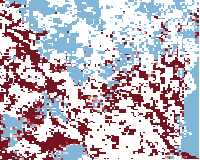
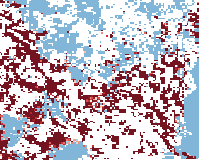
NISAR: subtract hydrostatic and wet troposphere screens (sign tested), rebuild NISAR stacks and exports

diff --git a/src/corrections.py b/src/corrections.py
@@ -1,0 +1,75 @@
+"""NISAR GUNW troposphere and solid-earth-tide screens, evaluated on the 80 m pixel grid.
+The file stores each screen as a 3-D cube (20 heights, 500 m grid) in radians. A pixel needs its own ground height to pick the right slice,
+and the file has no per-pixel DEM, so heights come from the open Copernicus 30 m DEM (orthometric; converted to ellipsoidal with a fixed -28 m
+geoid offset for Arizona, small next to the 500 m layer spacing)."""
+import os, numpy as np, h5py, rasterio
+from rasterio.windows import from_bounds
+from scipy.ndimage import map_coordinates
+from pyproj import Transformer
+ROOT = os.path.dirname(os.path.dirname(os.path.abspath(__file__)))
+RG = "science/LSAR/GUNW/metadata/radarGrid/"
+GEOID_OFFSET_M = -28.0
+SCREENS = {"hydro": "hydrostaticTroposphericPhaseScreen", "wet": "wetTroposphericPhaseScreen", "tide": "slantRangeSolidEarthTidesPhase"}
+
+
+def _tile_url(lat0, lon0):
+    ns = f"N{lat0:02d}"
+    ew = f"W{-lon0:03d}" if lon0 < 0 else f"E{lon0:03d}"
+    n = f"Copernicus_DSM_COG_10_{ns}_00_{ew}_00_DEM"
+    return f"/vsicurl/https://copernicus-dem-30m.s3.amazonaws.com/{n}/{n}.tif"
+
+
+def dem_for_box(lonlat_box, name):
+    """(array, west, north, step_deg) of the DEM for the box, cached in data/processed/cache."""
+    cache = f"{ROOT}/data/processed/cache/dem_{name}.npz"
+    if os.path.exists(cache):
+        z = np.load(cache)
+        return z["a"], float(z["w"]), float(z["n"]), float(z["step"])
+    w, s, e, n = lonlat_box
+    w -= .05; s -= .05; e += .05; n += .05
+    step = 1 / 3600
+    nx, ny = int(round((e - w) / step)), int(round((n - s) / step))
+    out = np.full((ny, nx), np.nan, "float32")
+    with rasterio.Env(GDAL_DISABLE_READDIR_ON_OPEN="EMPTY_DIR", CPL_VSIL_CURL_ALLOWED_EXTENSIONS=".tif"):
+        for lat0 in range(int(np.floor(s)), int(np.floor(n)) + 1):
+            for lon0 in range(int(np.floor(w)), int(np.floor(e)) + 1):
+                try:
+                    d = rasterio.open(_tile_url(lat0, lon0))
+                except Exception:
+                    continue
+                with d:
+                    b = d.bounds
+                    l, bt, r, t = max(w, b.left), max(s, b.bottom), min(e, b.right), min(n, b.top)
+                    if l >= r or bt >= t:
+                        continue
+                    a = d.read(1, window=from_bounds(l, bt, r, t, d.transform)).astype("float32")
+                    r0 = int(round((n - t) / step)); c0 = int(round((l - w) / step))
+                    hh, ww = min(a.shape[0], ny - r0), min(a.shape[1], nx - c0)
+                    out[r0:r0 + hh, c0:c0 + ww] = a[:hh, :ww]
+    os.makedirs(os.path.dirname(cache), exist_ok=True)
+    np.savez(cache, a=out, w=w, n=n, step=step)
+    return out, w, n, step
+
+
+def heights_on_grid(dem, epsg, x, y):
+    a, w, n, step = dem
+    X, Y = np.meshgrid(x, y)
+    lon, lat = Transformer.from_crs(epsg, 4326, always_xy=True).transform(X, Y)
+    h = map_coordinates(np.nan_to_num(a, nan=float(np.nanmedian(a))), [(n - lat) / step - .5, (lon - w) / step - .5], order=1, mode="nearest")
+    return h + GEOID_OFFSET_M
+
+
+def screen_on_grid(path, which, x, y, h):
+    """Phase screen (radians) for 'hydro' | 'wet' | 'tide' at pixel coordinates x (1-D), y (1-D) and heights h (2-D, ellipsoidal metres)."""
+    with h5py.File(path, "r") as f:
+        g = f[RG]
+        xc, yc, hz = g["xCoordinates"][:], g["yCoordinates"][:], g["heightAboveEllipsoid"][:]
+        dx, dy = xc[1] - xc[0], yc[1] - yc[0]
+        c0 = max(int((x.min() - xc[0]) / dx) - 2, 0); c1 = min(int((x.max() - xc[0]) / dx) + 3, len(xc))
+        r0 = max(int((y.max() - yc[0]) / dy) - 2, 0); r1 = min(int((y.min() - yc[0]) / dy) + 3, len(yc))
+        cube = g[SCREENS[which]][:, r0:r1, c0:c1].astype("float64")
+    X, Y = np.meshgrid(x, y)
+    col = (X - xc[0]) / dx - c0
+    row = (Y - yc[0]) / dy - r0
+    z = np.clip((h - hz[0]) / (hz[1] - hz[0]), 0, len(hz) - 1)
+    return map_coordinates(cube, [z, row, col], order=1, mode="nearest")

diff --git a/src/nisar_noise_test.py b/src/nisar_noise_test.py
@@ -1,0 +1,79 @@
+"""Does subtracting NISAR's own troposphere / solid-earth-tide screens make the Willcox series cleaner?
+Same 25-pair chain as stack.py, same pixels, same reference; only the correction changes. Both signs of each screen are tried,
+because the sign convention is not something we can verify from here: the sign that REDUCES scatter is the physical one.
+Usage: python nisar_noise_test.py"""
+import glob, re, os, json, datetime as dt, numpy as np
+from gunw import read_window, ref_median
+import corrections as C
+BOX = (-110.1, 31.9, -109.6, 32.4)
+REF = (-109.98, 31.95)
+ROOT = C.ROOT
+best = {}
+for p in glob.glob(f"{ROOT}/data/raw/NISAR_L2_*_GUNW_*_128_D_072_*.h5"):
+    k = re.sub(r"_[PX]\d{5}_", "_", os.path.basename(p))
+    if k not in best or "_P0" in p and "_X0" in best[k]:
+        best[k] = p
+dem = C.dem_for_box(BOX, "willcox")
+print("DEM", dem[0].shape, "range", np.nanmin(dem[0]), np.nanmax(dem[0]))
+VAR = {"iono only": {}, "+tide": {"tide": 1}, "+hydro": {"hydro": 1}, "+wet": {"wet": 1}, "+hydro+wet": {"hydro": 1, "wet": 1}, "+tropo+tide": {"hydro": 1, "wet": 1, "tide": 1},
+       "-tide": {"tide": -1}, "-hydro": {"hydro": -1}, "-wet": {"wet": -1}, "-hydro-wet": {"hydro": -1, "wet": -1}, "-tropo-tide": {"hydro": -1, "wet": -1, "tide": -1}}
+pairs = []
+for k, p in sorted(best.items()):
+    try:
+        w = read_window(p, BOX)
+    except Exception as e:
+        print("skip", k[:40], type(e).__name__)
+        continue
+    if w is None:
+        continue
+    h = C.heights_on_grid(dem, w["epsg"], w["x"], w["y"])
+    lam = w["lam"]
+    sc = {n: C.screen_on_grid(p, n, w["x"], w["y"], h) for n in C.SCREENS}
+    conv = -(lam / (4 * np.pi)) * 1000.0
+    d = {}
+    for name, comb in VAR.items():
+        x = w["disp_mm"].copy()
+        for n, s in comb.items():
+            x = x - s * conv * sc[n]
+        r, _ = ref_median(dict(w, disp_mm=x), REF, 5.0)
+        d[name] = (x - r).astype("float32")
+    pairs.append(dict(ref=w["ref_date"], sec=w["sec_date"], d=d, std={n: float(np.nanstd(d[n])) for n in d}))
+pairs.sort(key=lambda q: q["ref"])
+chains, cur = [], [pairs[0]]
+for q in pairs[1:]:
+    if q["ref"] == cur[-1]["sec"]:
+        cur.append(q)
+    else:
+        chains.append(cur)
+        cur = [q]
+chains.append(cur)
+chain = max(chains, key=len)
+print("pairs", len(pairs), "chain", len(chain))
+dates = [chain[0]["ref"]] + [q["sec"] for q in chain]
+t = np.array([(dt.date.fromisoformat(s) - dt.date.fromisoformat(dates[0])).days for s in dates], float) / 365.25
+complete = np.all([np.isfinite(q["d"]["iono only"]) for q in chain], 0)
+print("complete pixels", int(complete.sum()))
+
+
+def ols(t, y):
+    A = np.c_[t, np.ones_like(t)]
+    c, *_ = np.linalg.lstsq(A, y, rcond=None)
+    r = y - A @ c
+    se = np.sqrt((r ** 2).sum() / max(len(t) - 2, 1) / ((t - t.mean()) ** 2).sum())
+    return c[0] / 10, se / 10, r.std()
+
+
+print(f"{'variant':14s} {'spatial sd mm':>13s} {'jump sd mm':>10s} {'lag1':>6s} {'resid mm':>8s} {'rate cm/yr':>16s} {'rate to Aug22':>14s}")
+rows = {}
+for name in VAR:
+    ser = np.array([0.0] + list(np.cumsum([np.nanmean(q["d"][name][complete]) for q in chain])))
+    inc = np.diff(ser)
+    lag1 = np.corrcoef(inc[:-1], inc[1:])[0, 1]
+    rate, se, rr = ols(t, ser)
+    m = np.array([dt.date.fromisoformat(s) <= dt.date(2026, 8, 22) for s in dates])
+    r2 = ols(t[m], ser[m])[0]
+    sp = np.mean([q["std"][name] for q in chain])
+    rows[name] = dict(spatial_sd_mm=round(float(sp), 2), jump_sd_mm=round(float(inc.std()), 2), lag1=round(float(lag1), 2), resid_mm=round(float(rr), 2),
+                      rate=round(float(rate), 2), sigma=round(float(se), 2), rate_to_aug22=round(float(r2), 2))
+    print(f"{name:14s} {sp:13.2f} {inc.std():10.2f} {lag1:6.2f} {rr:8.2f} {rate:8.2f} +/-{se:4.2f} {r2:14.2f}")
+json.dump(dict(dates=dates, variants=rows), open(f"{ROOT}/data/processed/cache/nisar_noise_test.json", "w"), indent=1)

diff --git a/src/stack.py b/src/stack.py
@@ -10,9 +10,12 @@ REF = {"willcox": (-109.98, 31.95)}   # Dragoon Mountains, UNVERIFIED coordinate
 ap = argparse.ArgumentParser()
 ap.add_argument("--hotspot", required=True); ap.add_argument("--track", type=int, required=True); ap.add_argument("--frame", type=int, required=True)
 ap.add_argument("--dir", required=True, choices=["D", "A"]); ap.add_argument("--ref", nargs=2, type=float); ap.add_argument("--ref-km", type=float, default=5.0)
-ap.add_argument("--coh", type=float, default=0.4); ap.add_argument("--tag", default="")
+ap.add_argument("--coh", type=float, default=0.4); ap.add_argument("--tag", default=""); ap.add_argument("--tropo", action="store_true", help="also subtract NISAR hydrostatic+wet troposphere screens")
 a = ap.parse_args()
-box = BOX[a.hotspot]; refpt = tuple(a.ref) if a.ref else REF.get(a.hotspot)
+box = BOX[a.hotspot]
+import corrections as C
+dem = C.dem_for_box(box, a.hotspot) if a.tropo else None
+refpt = tuple(a.ref) if a.ref else REF.get(a.hotspot)
 if refpt is None: sys.exit("give --ref lon lat")
 pat = f"{ROOT}/data/raw/NISAR_L2_*_GUNW_*_{a.track:03d}_{a.dir}_{a.frame:03d}_*.h5"
 best = {}
@@ -21,7 +24,7 @@ for p in glob.glob(pat):
     if k not in best or "_P0" in p and "_X0" in best[k]: best[k] = p
 pairs = []
 for k, p in sorted(best.items()):
-    try: w = read_window(p, box, coh_min=a.coh)
+    try: w = read_window(p, box, coh_min=a.coh, dem=dem)
     except Exception as e: print("skip (unreadable/incomplete):", os.path.basename(p)[:60], type(e).__name__); continue
     if w is None: continue
     r, nref = ref_median(w, refpt, a.ref_km)
@@ -56,7 +59,7 @@ rp = rate_px[complete] / 10
 print(f"per-pixel LOS rate (cm/yr): median {np.median(rp):.2f}, 5th pct {np.percentile(rp,5):.2f}, 95th pct {np.percentile(rp,95):.2f}")
 out = dict(hotspot=a.hotspot, units="mm", track=f"{a.track}{a.dir}", frame=a.frame, reference=dict(lonlat=list(refpt), radius_km=a.ref_km, note="unverified hand-picked"),
            dates=dates, displacement_mm=np.round(series, 2).tolist(), rate_cm_yr=round(float(coef[0] / 10), 3), rate_sigma_cm_yr=round(float(se / 10), 3),
-           n_pixels=n_c, coherence_min=a.coh, sign_convention="d=-(lambda/4pi)*phi, UNVERIFIED")
+           n_pixels=n_c, coherence_min=a.coh, sign_convention="d=-(lambda/4pi)*phi, UNVERIFIED", troposphere_corrected=bool(a.tropo))
 os.makedirs(f"{ROOT}/data/processed", exist_ok=True)
 json.dump(out, open(f"{ROOT}/data/processed/stack_{a.hotspot}_{a.track}{a.dir}{a.tag}.json", "w"), indent=1)
 np.save(f"{ROOT}/data/processed/cache/rate_{a.hotspot}_{a.track}{a.dir}{a.tag}.npy", rate_px) if os.path.isdir(f"{ROOT}/data/processed/cache") else None

diff --git a/src/gunw.py b/src/gunw.py
@@ -5,7 +5,7 @@ from pyproj import Transformer
 GRID = "science/LSAR/GUNW/grids/frequencyA/"
 C = 299792458.0
 
-def read_window(path, lonlat_box, subtract_iono=True, coh_min=0.4):
+def read_window(path, lonlat_box, subtract_iono=True, coh_min=0.4, dem=None):
     """lonlat_box = (west, south, east, north). Returns dict with arrays on the 80 m UTM grid cropped to the box."""
     with h5py.File(path, "r") as f:
         g = f[GRID + "unwrappedInterferogram/HH"]
@@ -29,6 +29,11 @@ def read_window(path, lonlat_box, subtract_iono=True, coh_min=0.4):
     if subtract_iono:
         valid &= np.isfinite(ion)
         ph = ph - ion
+    if dem is not None:   # NISAR hydrostatic + wet troposphere screens; sign verified by the scatter test in nisar_noise_test.py: subtract
+        import corrections as corr
+        h = corr.heights_on_grid(dem, epsg, x[xi], y[yi])
+        for n in ("hydro", "wet"):
+            ph = ph - corr.screen_on_grid(path, n, x[xi], y[yi], h)
     disp_mm = -(lam / (4 * np.pi)) * ph * 1000.0
     return dict(x=x[xi], y=y[yi], disp_mm=np.where(valid, disp_mm, np.nan), coh=coh, valid=valid, ion_unc=ionu,
                 epsg=epsg, lam=lam, temporal_days=tb, ref_date=ref, sec_date=sec, track=track, direction=direction)

diff --git a/docs/STATUS.md b/docs/STATUS.md
@@ -2,6 +2,16 @@
 
 Newest first. The earlier log is at the end of AGENTS.md (section 14 and the dated entries after it); new entries go here to avoid merge conflicts with other edits to AGENTS.md and README.md.
 
+## Nov 15 2026: NISAR troposphere correction, licence
+
+- LICENSE (MIT), requirements.txt, CITATION.cff and docs/DATA_AND_LICENSES.md added. ADWR reuse terms are NOT verified; logo was generated with ChatGPT from the team's brief.
+- No newer NISAR GUNW products exist for Willcox (128 D) or Eloy (077 A) than those already processed; the record ends Oct 21 2026.
+- NISAR's own hydrostatic and wet troposphere screens are now subtracted (src/corrections.py; ground heights from the open Copernicus 30 m DEM, since the GUNW has no per-pixel DEM). The solid-earth-tide screen is nearly uniform over each box and changes nothing after referencing, so it is not applied.
+- Sign tested, not assumed (src/nisar_noise_test.py, 25 Willcox pairs, same pixels and reference): subtracting hydrostatic+wet cuts pair-to-pair jump scatter 23.3 to 16.9 mm and residual 17.8 to 13.5 mm; the opposite sign makes it 33.5 and 26 mm. So subtracting is the physical sign.
+- Willcox NISAR LOS rate: -3.44 +/- 1.23 before, -2.82 +/- 0.93 cm/yr after. Still not stable: -1.1 cm/yr if the series stops at Aug 22; lag-1 correlation -0.47 shows single bad dates remain (Sep 15 2026 is the worst). Not a reliable rate.
+- Eloy 077 A (same reference as before, 3.9 months): residual 9.2 to 6.0 mm; rate -3.92 +/- 3.00 before, -4.76 +/- 1.94 cm/yr after. Short record; Sentinel-1 gives about -1.3 at Eloy-Picacho, so this is not used as a result.
+- Sentinel-1 results are unchanged. Exports rebuilt (timeseries_*.json, rate_nisar_*.png).
+
 ## Nov 14 2026, late night: website review and plain-language insights
 
 - Ran the real front end (unchanged) against our data in a simulated page and listed exactly what a visitor sees. Found: two "not supplied" values (sign convention, data release), two permanently empty layers (Data centers, Habitat), and several things we built but never displayed.
